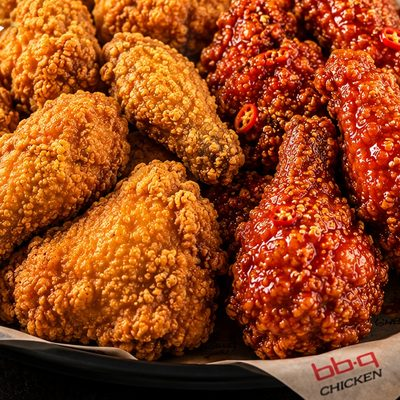
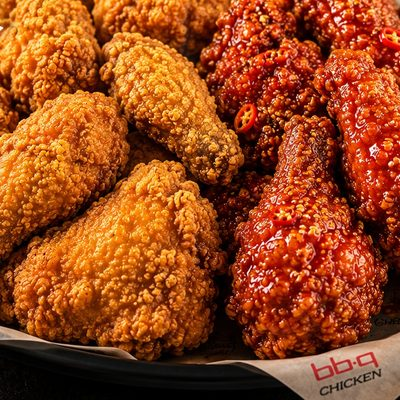
Add third artwork batch: 14 of 16 products now have their own photography
Imports five supplied masters and derives their crops:

  chicken-rice-meal  plated chicken with rice, slaw and dipping sauce
  chicken-burger     fillet burger with lettuce, onion and pickles
  korean-rice-bowl   glazed chicken over rice with kimchi and vegetables
  french-fries       seasoned fries in a branded carton
  cheesling-fries    fries under cheese sauce, spring onion and chilli

Only Ddeok-Bokki and Rose Ddeok-Bokki are still outstanding, and both are the
same dish in two sauces.

All five arrived as finished campaign compositions — headline, subhead and
badges baked in — so each needed its own promo-safe region. Catalogue
surfaces crop inside those regions and banners keep the full artwork, pinned
to the top so the headline survives the 16:9 cut.

Getting the regions right needed a horizontal control the pipeline did not
have. A wide promo composition cropped to a 4:5 card loses most of its width,
and centring lost the point of the product: the Chicken & Rice Meal card came
out reading as a plain chicken box with the rice and slaw cropped away. The
override map gained focus_x, so that card now biases right and shows the
composed plate.

Each region took two or three passes against the rendered card to clear
headline flourishes and to land on printed packaging marks rather than
slicing through them — the burger was catching the cup wordmark, the fries a
spark graphic, the cheesling fries the red headline and then its own tray
[…]

diff --git a/src/constants/foodAssetRegistry.ts b/src/constants/foodAssetRegistry.ts
@@ -65,4 +65,34 @@ export const suppliedFoodAssets: Partial<Record<FoodAssetKey, FoodAsset>> = {
     detail: require('@assets/food/detail/half-and-half.jpg'),
     banner: require('@assets/food/banner/half-and-half.jpg'),
   },
+  chickenRiceMeal: {
+    thumb: require('@assets/food/thumb/chicken-rice-meal.jpg'),
+    card: require('@assets/food/card/chicken-rice-meal.jpg'),
+    detail: require('@assets/food/detail/chicken-rice-meal.jpg'),
+    banner: require('@assets/food/banner/chicken-rice-meal.jpg'),
+  },
+  chickenBurger: {
+    thumb: require('@assets/food/thumb/chicken-burger.jpg'),
+    card: require('@assets/food/card/chicken-burger.jpg'),
+    detail: require('@assets/food/detail/chicken-burger.jpg'),
+    banner: require('@assets/food/banner/chicken-burger.jpg'),
+  },
+  koreanRiceBowl: {
+    thumb: require('@assets/food/thumb/korean-rice-bowl.jpg'),
+    card: require('@assets/food/card/korean-rice-bowl.jpg'),
+    detail: require('@assets/food/detail/korean-rice-bowl.jpg'),
+    banner: require('@assets/food/banner/korean-rice-bowl.jpg'),
+  },
+  frenchFries: {
+    thumb: require('@assets/food/thumb/french-fries.jpg'),
+    card: require('@assets/food/card/french-fries.jpg'),
+    detail: require('@assets/food/detail/french-fries.jpg'),
+    banner: require('@assets/food/banner/french-fries.jpg'),
+  },
+  cheeslingFries: {
+    thumb: require('@assets/food/thumb/cheesling-fries.jpg'),
+    card: require('@assets/food/card/cheesling-fries.jpg'),
+    detail: require('@assets/food/detail/cheesling-fries.jpg'),
+    banner: require('@assets/food/banner/cheesling-fries.jpg'),
+  },
 };

diff --git a/src/services/data/rewardsData.ts b/src/services/data/rewardsData.ts
@@ -272,6 +272,32 @@ export const promotions: Promotion[] = [
     usePromotionalComposition: true,
   },
   {
+    id: 'promo-korean-rice-bowl',
+    headline: 'The Korean Rice Bowl has landed',
+    description:
+      'Glazed chicken over steamed rice with kimchi, cucumber, carrot and a fried egg. One bowl, everything in it.',
+    assetKey: 'koreanRiceBowl',
+    ctaLabel: 'Try the bowl',
+    ctaHref: '/product/korean-rice-bowl',
+    validFrom: new Date(Date.now() - 7 * 86_400_000).toISOString(),
+    validUntil: new Date(Date.now() + 50 * 86_400_000).toISOString(),
+    terms: ['Available at participating stores.'],
+    usePromotionalComposition: true,
+  },
+  {
+    id: 'promo-cheesling-fries',
+    headline: 'Cheesling Fries, loaded',
+    description:
+      'Our fries under cheese sauce, spring onion and chilli. Add them to any box for R55.',
+    assetKey: 'cheeslingFries',
+    ctaLabel: 'Add to my order',
+    ctaHref: '/product/cheesling-fries',
+    validFrom: new Date(Date.now() - 14 * 86_400_000).toISOString(),
+    validUntil: new Date(Date.now() + 30 * 86_400_000).toISOString(),
+    terms: ['Add-on price applies with any chicken box.', 'While stocks last.'],
+    usePromotionalComposition: true,
+  },
+  {
     id: 'promo-free-delivery',
     headline: 'Free delivery over R350',
     description: 'Fill the box, skip the fee. Automatically applied at checkout.',

diff --git a/src/constants/foodAssets.ts b/src/constants/foodAssets.ts
@@ -79,18 +79,8 @@ export const foodAssets = suppliedFoodAssets;
  * what a customer actually reads in a thumbnail.
  */
 export const SUBSTITUTE_ASSET_KEYS: Partial<Record<FoodAssetKey, FoodAssetKey>> = {
-  // Whole crispy pieces, unglazed — reads as "fried chicken on a plate".
-  chickenRiceMeal: 'goldenOriginal',
-  chickenBurger: 'goldenOriginal',
-  // Dark, glossy lacquered glaze over rice.
-  koreanRiceBowl: 'soyGarlic',
-  // Bite-size golden fried pieces in a tray sit far closer to a fries portion
-  // than a whole drumstick does.
-  frenchFries: 'boneless',
-  // Same cheese dusting, so the seasoning itself is accurate.
-  cheeslingFries: 'cheesling',
-  // Glossy red chilli sauce with fresh chilli — the closest thing we have to
-  // a saucy rice-cake dish.
+  // Glossy red chilli glaze with fresh chilli and sesame — the closest thing
+  // in the catalogue to a saucy rice-cake dish.
   ddeokBokki: 'secretSauce',
   roseDdeokBokki: 'secretSauce',
 };

diff --git a/README.md b/README.md
@@ -86,22 +86,9 @@ release build.
 
 ### Current asset status
 
-**9 of 16** catalogue products have supplied artwork:
-
-| Supplied | Awaiting artwork |
-|---|---|
-| Golden Original Chicken | Chicken & Rice Meal |
-| Honey Garlic Chicken | Chicken Burger |
-| Soy Garlic Chicken | Korean Rice Bowl |
-| Secret Sauce Chicken | French Fries |
-| Hot Spicy Chicken | Cheesling Fries |
-| Cheesling Chicken | Ddeok-Bokki |
-| Golden Original Wings | Rose Ddeok-Bokki |
-| Boneless Chicken | |
-| Half & Half Chicken | |
-
-All seven outstanding products are sides and meals — every chicken product on
-the menu now carries its own photography.
+**14 of 16** catalogue products have supplied artwork. Only Ddeok-Bokki and
+Rose Ddeok-Bokki are outstanding; every chicken, meal and fries product on the
+menu now carries its own photograph.
 
 ### Promo compositions and per-master crop overrides
 
@@ -114,9 +101,15 @@ cards, where a naive crop slices the headline mid-word.
 | Key | Effect |
 |---|---|
 | `promo_safe` | A fractional `(left, top, right, bottom)` region containing food and no campaign text. `thumb`/`card`/`detail` crop inside it; `banner` still uses the full composition. |
-| `gravity` | Vertical bias — a single number, or a dict keyed by variant. Half & Half pins its banner to `0.0` so the headline survives the 16:9 cut. |
+| `gravity` | Vertical bias — a single number, or a dict keyed by variant. Every promo master pins its banner to `0.0` so the top-left headline survives the 16:9 cut. |
+| `focus_x` | Horizontal bias, same shape. A wide promo composition cropped to a 4:5 card loses most of its width, so this decides which part of the plate survives — Chicken & Rice Meal biases right to keep the rice and slaw in frame. |
 
-Add an entry there when a master carries text; leave it out for plain food shots.
+Eight of the fourteen supplied masters arrived as campaign artwork and carry an
+entry here. Plain food shots need none.
+
+When adding one, derive and then **look at the card**: the rect has to clear
+headline flourishes and land on printed packaging marks rather than through
+them. Each of these took two or three passes to get right.
 
 ### Substitution while artwork is outstanding
 
@@ -127,11 +120,7 @@ in a thumbnail:
 
 | Borrows | Products |
 |---|---|
-| Golden Original | Chicken & Rice Meal, Chicken Burger |
-| Soy Garlic | Korean Rice Bowl |
-| Boneless | French Fries — bite-size golden pieces read far closer to a fries portion than a drumstick |
-| Cheesling | Cheesling Fries — same cheese dusting, so the seasoning itself is accurate |
-| Secret Sauce | Ddeok-Bokki, Rose Ddeok-Bokki |
+| Secret Sauce | Ddeok-Bokki, Rose Ddeok-Bokki — glossy red chilli glaze with fresh chilli and sesame |
 
 Two guardrails come with this:
 
@@ -149,9 +138,8 @@ mapped substitute. Both disappear on their own the moment the master lands.
 
 **Worth flagging:** the brief (§7) asks for clear product recognition and forbids
 placeholder food imagery. Substitution trades against that deliberately, to keep
-the menu looking finished ahead of the full shoot. The 7 remaining photographs
-remove the trade-off entirely — French Fries and the two Ddeok-Bokki are the
-ones to shoot first, since they look least like what currently stands in.
+the menu looking finished ahead of the full shoot. Two photographs now remove
+the trade-off entirely, and both are the same dish in two sauces — one shoot.
 
 ---
 
@@ -276,8 +264,8 @@ captured by our own form — that belongs inside the gateway's PCI-compliant SDK
 
 Honest list of what is stubbed, and where to pick it up:
 
-- **7 of 16 food assets** are outstanding — all sides and meals; those products
-  currently borrow a related product's photograph (see Substitution above).
+- **2 of 16 food assets** are outstanding — Ddeok-Bokki and Rose Ddeok-Bokki,
+  which currently borrow the Secret Sauce photograph (see Substitution above).
 - **Card capture** shows an explanatory alert instead of a form — the gateway
   SDK belongs at that call site in `account/payment-methods.tsx`.
 - **Address geocoding** anchors new addresses to the city centre. Wire a
